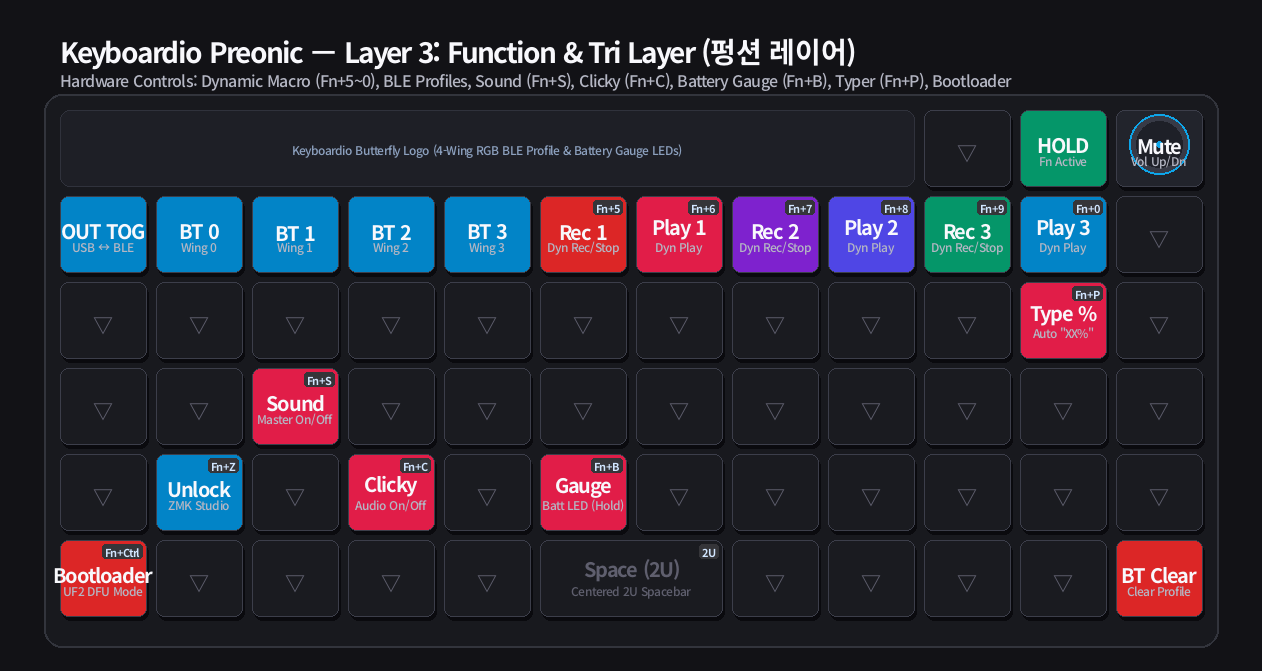
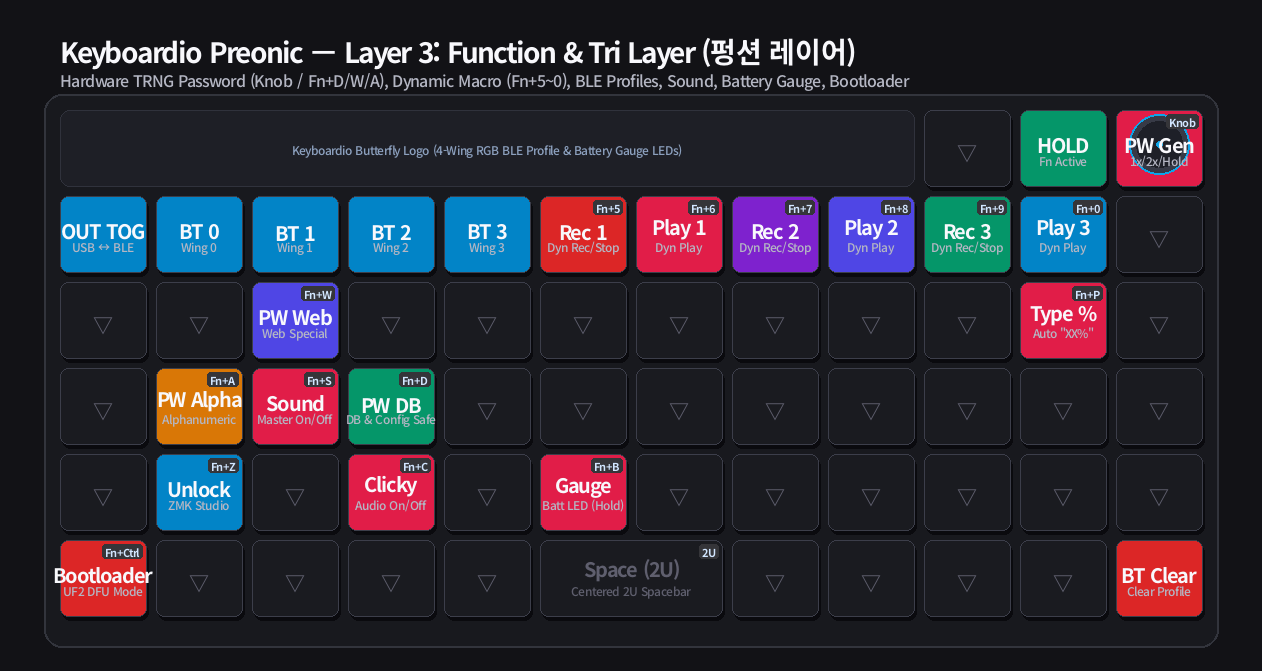
docs(images): update Function layer diagram with password generation keys

diff --git a/scripts/generate_keymap_images.py b/scripts/generate_keymap_images.py
@@ -371,7 +371,7 @@ func_keys = [
     # Top row
     {"col": 9, "row": 0, "main": "▽", "bg": COLOR_TRANS, "fg": TEXT_DIM},
     {"col": 10, "row": 0, "main": "HOLD", "sub": "Fn Active", "bg": COLOR_LAYER_FN},
-    {"col": 11, "row": 0, "main": "Mute", "sub": "Vol Up/Dn", "bg": COLOR_MOD, "is_knob": True},
+    {"col": 11, "row": 0, "main": "PW Gen", "sub": "1x/2x/Hold", "bg": COLOR_FEATURE, "is_knob": True, "tag": "Knob"},
     # Row 1 (Output & Bluetooth Profiles, Dynamic Macros)
     {"col": 0, "row": 1, "main": "OUT TOG", "sub": "USB ↔ BLE", "bg": COLOR_BLE},
     {"col": 1, "row": 1, "main": "BT 0", "sub": "Wing 0", "bg": COLOR_BLE},
@@ -385,10 +385,10 @@ func_keys = [
     {"col": 9, "row": 1, "main": "Rec 3", "sub": "Dyn Rec/Stop", "bg": COLOR_LAYER_FN, "tag": "Fn+9"},
     {"col": 10, "row": 1, "main": "Play 3", "sub": "Dyn Play", "bg": COLOR_BLE, "tag": "Fn+0"},
     {"col": 11, "row": 1, "main": "▽", "bg": COLOR_TRANS, "fg": TEXT_DIM},
-    # Row 2 (Battery Typer on P)
+    # Row 2 (Battery Typer on P, Web Password on W)
     {"col": 0, "row": 2, "main": "▽", "bg": COLOR_TRANS, "fg": TEXT_DIM},
     {"col": 1, "row": 2, "main": "▽", "bg": COLOR_TRANS, "fg": TEXT_DIM},
-    {"col": 2, "row": 2, "main": "▽", "bg": COLOR_TRANS, "fg": TEXT_DIM},
+    {"col": 2, "row": 2, "main": "PW Web", "sub": "Web Special", "bg": COLOR_SYM, "tag": "Fn+W"},
     {"col": 3, "row": 2, "main": "▽", "bg": COLOR_TRANS, "fg": TEXT_DIM},
     {"col": 4, "row": 2, "main": "▽", "bg": COLOR_TRANS, "fg": TEXT_DIM},
     {"col": 5, "row": 2, "main": "▽", "bg": COLOR_TRANS, "fg": TEXT_DIM},
@@ -398,11 +398,11 @@ func_keys = [
     {"col": 9, "row": 2, "main": "▽", "bg": COLOR_TRANS, "fg": TEXT_DIM},
     {"col": 10, "row": 2, "main": "Type %", "sub": "Auto \"XX%\"", "bg": COLOR_FEATURE, "tag": "Fn+P"},
     {"col": 11, "row": 2, "main": "▽", "bg": COLOR_TRANS, "fg": TEXT_DIM},
-    # Row 3 (Master Sound Toggle on S)
+    # Row 3 (Alphanumeric on A, Master Sound Toggle on S, DB Safe on D)
     {"col": 0, "row": 3, "main": "▽", "bg": COLOR_TRANS, "fg": TEXT_DIM},
-    {"col": 1, "row": 3, "main": "▽", "bg": COLOR_TRANS, "fg": TEXT_DIM},
+    {"col": 1, "row": 3, "main": "PW Alpha", "sub": "Alphanumeric", "bg": COLOR_NUMPAD, "tag": "Fn+A"},
     {"col": 2, "row": 3, "main": "Sound", "sub": "Master On/Off", "bg": COLOR_FEATURE, "tag": "Fn+S"},
-    {"col": 3, "row": 3, "main": "▽", "bg": COLOR_TRANS, "fg": TEXT_DIM},
+    {"col": 3, "row": 3, "main": "PW DB", "sub": "DB & Config Safe", "bg": COLOR_LAYER_FN, "tag": "Fn+D"},
     {"col": 4, "row": 3, "main": "▽", "bg": COLOR_TRANS, "fg": TEXT_DIM},
     {"col": 5, "row": 3, "main": "▽", "bg": COLOR_TRANS, "fg": TEXT_DIM},
     {"col": 6, "row": 3, "main": "▽", "bg": COLOR_TRANS, "fg": TEXT_DIM},
@@ -446,6 +446,6 @@ os.makedirs(out_dir, exist_ok=True)
 render_layer("Keyboardio Preonic — Layer 0: Base Layer (기본 레이어)", "Standard 5x12 MIT Layout (Alphanumerics, Centered 2U Spacebar, Top Fn & Media Knob)", base_keys, os.path.join(out_dir, "layer0_base.png"))
 render_layer("Keyboardio Preonic — Layer 1: Lower Layer (로워 레이어)", "Numeric Keypad (Tenkeyless Numpad on Right Hand) & Navigation Keys (Home, End, PgUp, PgDn)", lower_keys, os.path.join(out_dir, "layer1_lower.png"))
 render_layer("Keyboardio Preonic — Layer 2: Raise Layer (레이즈 레이어)", "Programming Symbols & Full Mouse Emulation (Move, Click, Wheel Scroll)", raise_keys, os.path.join(out_dir, "layer2_raise.png"))
-render_layer("Keyboardio Preonic — Layer 3: Function & Tri Layer (펑션 레이어)", "Hardware Controls: Dynamic Macro (Fn+5~0), BLE Profiles, Sound (Fn+S), Clicky (Fn+C), Battery Gauge (Fn+B), Typer (Fn+P), Bootloader", func_keys, os.path.join(out_dir, "layer3_func.png"))
+render_layer("Keyboardio Preonic — Layer 3: Function & Tri Layer (펑션 레이어)", "Hardware TRNG Password (Knob / Fn+D/W/A), Dynamic Macro (Fn+5~0), BLE Profiles, Sound, Battery Gauge, Bootloader", func_keys, os.path.join(out_dir, "layer3_func.png"))
 
 print(f"All 4 layer images successfully re-generated into {out_dir}!")
